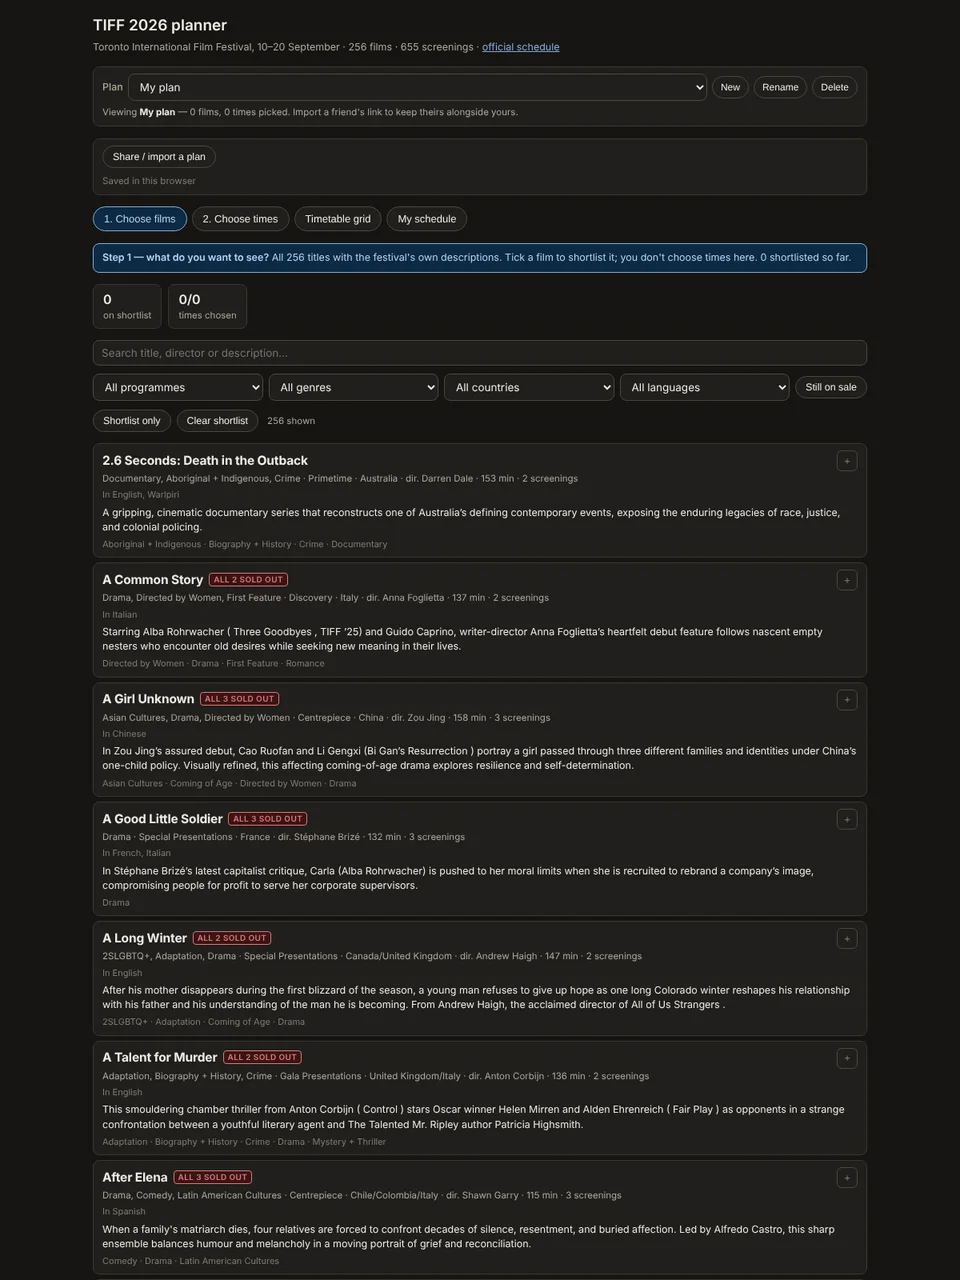
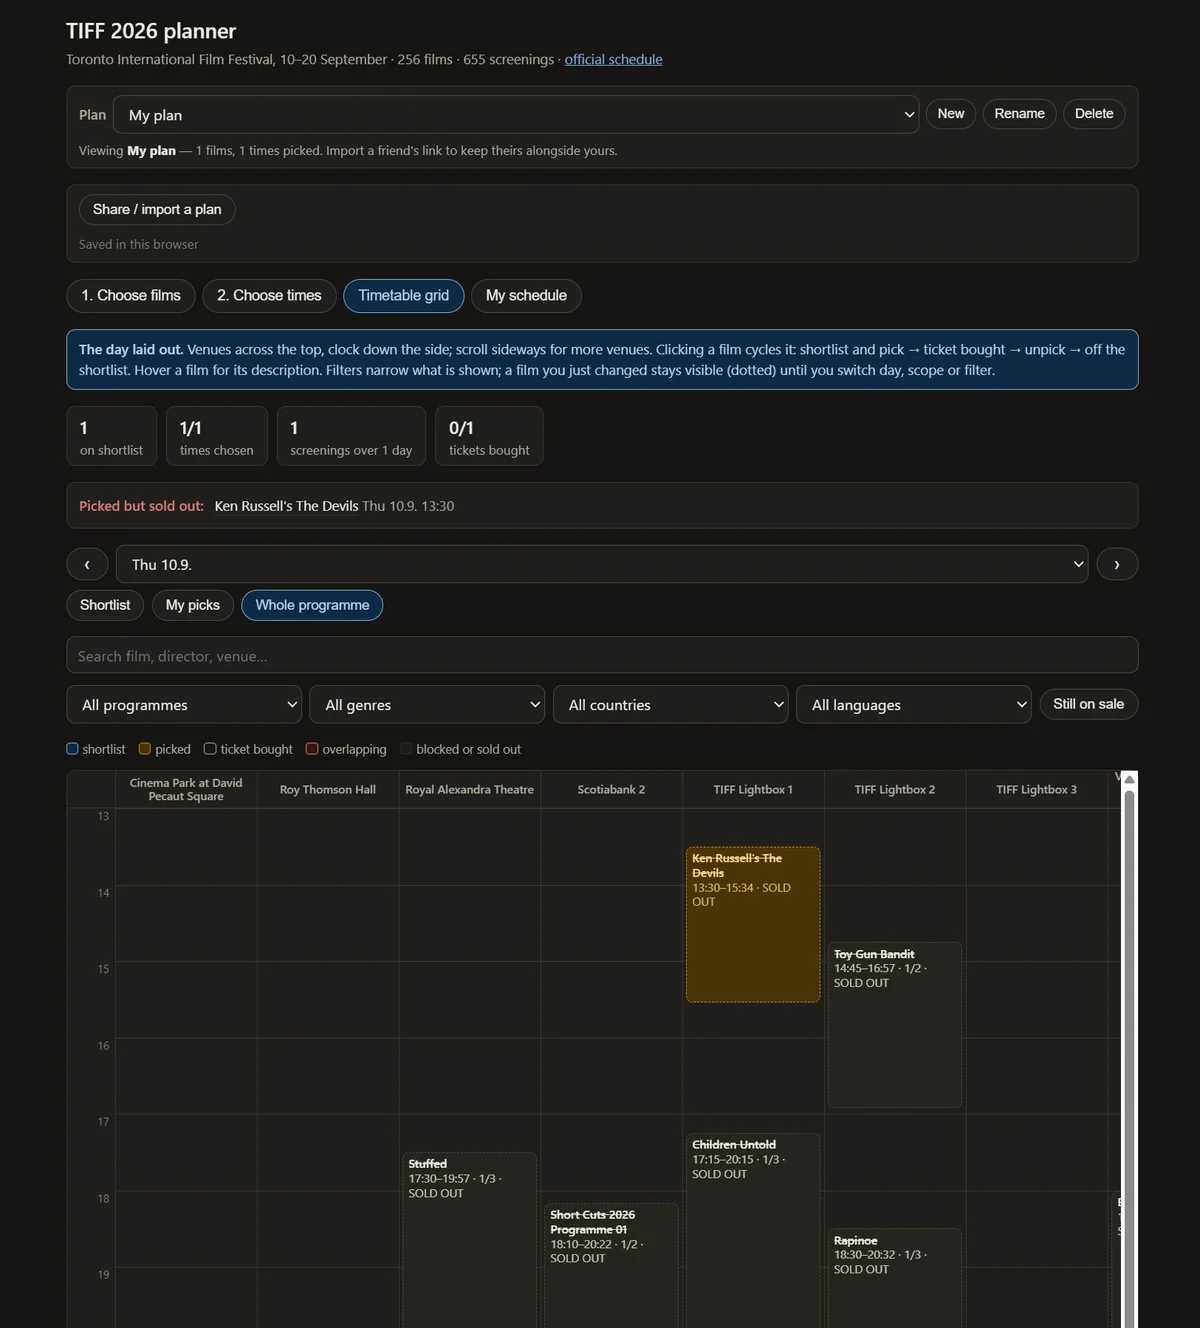
Add files via upload

diff --git a/index.html b/index.html
@@ -299,7 +299,7 @@ const CARDS = [
  },
  {
   "id": "hiff2026",
-  "aspect": "0.75",
+  "aspect": "1.199",
   "title": "HIFF 2026 planner",
   "url": "hiff2026/",
   "made": "html",
@@ -314,7 +314,7 @@ const CARDS = [
  },
  {
   "id": "tiff2026",
-  "aspect": "0.75",
+  "aspect": "0.904",
   "title": "TIFF 2026 planner",
   "url": "tiff2026/",
   "made": "html",
